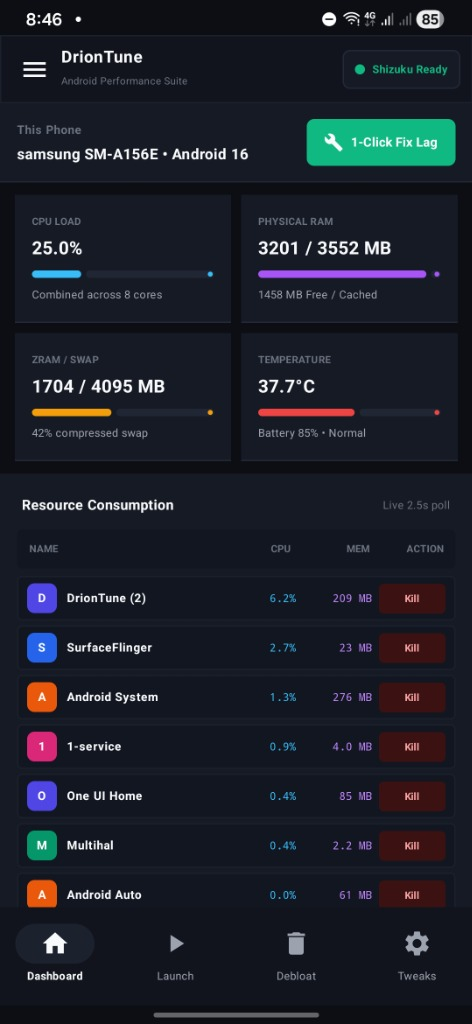
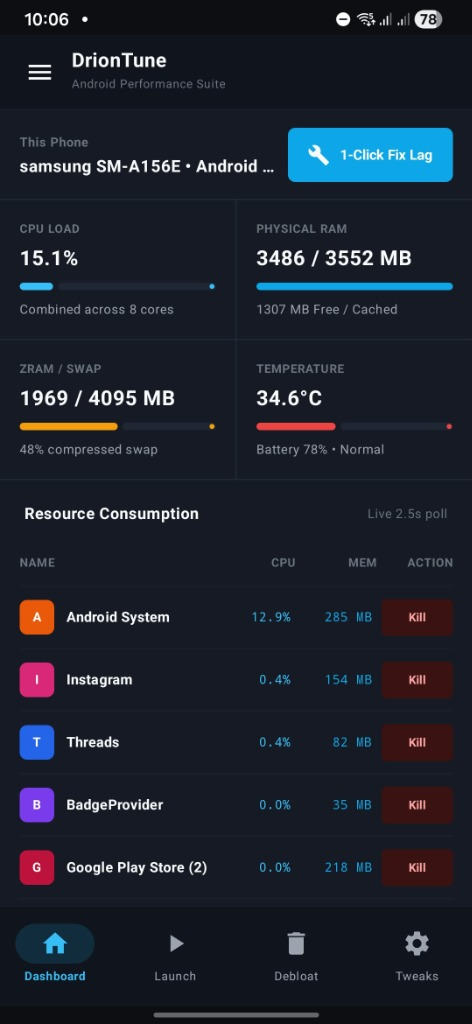
docs: update screenshots and links for v1.1.0

diff --git a/README.md b/README.md
@@ -8,13 +8,13 @@
     <img src="https://img.shields.io/badge/Android-8.0%2B-10b981?style=flat-square&logo=android&logoColor=white" alt="Android 8.0+" />
     <img src="https://img.shields.io/badge/Root-Not%20Required-38bdf8?style=flat-square" alt="No Root Required" />
     <img src="https://img.shields.io/badge/Requires-Shizuku-6366f1?style=flat-square" alt="Requires Shizuku" />
-    <a href="https://github.com/gwenz2/DrionTune/releases/download/v1.0.0/DrionTune-v1.0.0.apk">
-      <img src="https://img.shields.io/badge/Download-APK%20v1.0.0-10b981?style=flat-square" alt="Download APK" />
+    <a href="https://github.com/gwenz2/DrionTune/releases/download/v1.1.0/DrionTune-v1.1.0.apk">
+      <img src="https://img.shields.io/badge/Download-APK%20v1.1.0-0ea5e9?style=flat-square" alt="Download APK" />
     </a>
   </p>
 
   <p>
-    <a href="https://github.com/gwenz2/DrionTune/releases/download/v1.0.0/DrionTune-v1.0.0.apk"><strong>Download DrionTune v1.0.0 (APK)</strong></a>
+    <a href="https://github.com/gwenz2/DrionTune/releases/download/v1.1.0/DrionTune-v1.1.0.apk"><strong>Download DrionTune v1.1.0 (APK)</strong></a>
     &nbsp;|&nbsp;
     Requires free <a href="https://shizuku.rikka.app/">Shizuku</a> app
   </p>
@@ -28,10 +28,14 @@
   <tr>
     <td align="center"><strong>Live CPU, RAM, ZRAM & 1-Click Fix</strong></td>
     <td align="center"><strong>Real App Freezer & Game Launcher</strong></td>
+    <td align="center"><strong>Safe System Debloater</strong></td>
+    <td align="center"><strong>Deep System Tweaks</strong></td>
   </tr>
   <tr>
-    <td><img src="assets/dashboard.jpg" alt="DrionTune Dashboard" width="300" /></td>
-    <td><img src="assets/launcher1.jpg" alt="DrionTune Game Launcher" width="300" /></td>
+    <td><img src="assets/dashboard.jpg" alt="DrionTune Dashboard" width="220" /></td>
+    <td><img src="assets/launcher1.jpg" alt="DrionTune Game Launcher" width="220" /></td>
+    <td><img src="assets/debloat.jpg" alt="DrionTune Debloater" width="220" /></td>
+    <td><img src="assets/tweaks.jpg" alt="DrionTune Tweaks" width="220" /></td>
   </tr>
 </table>
 
